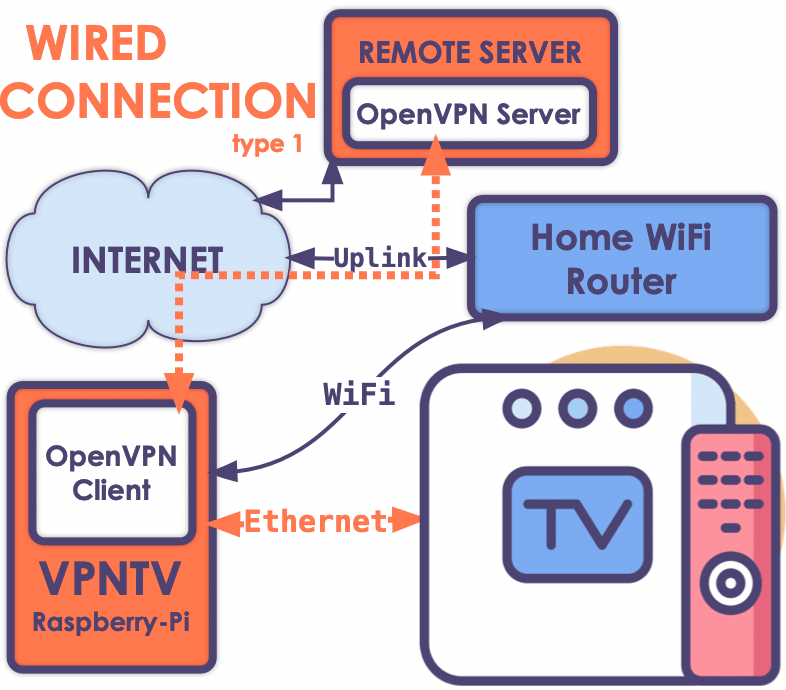
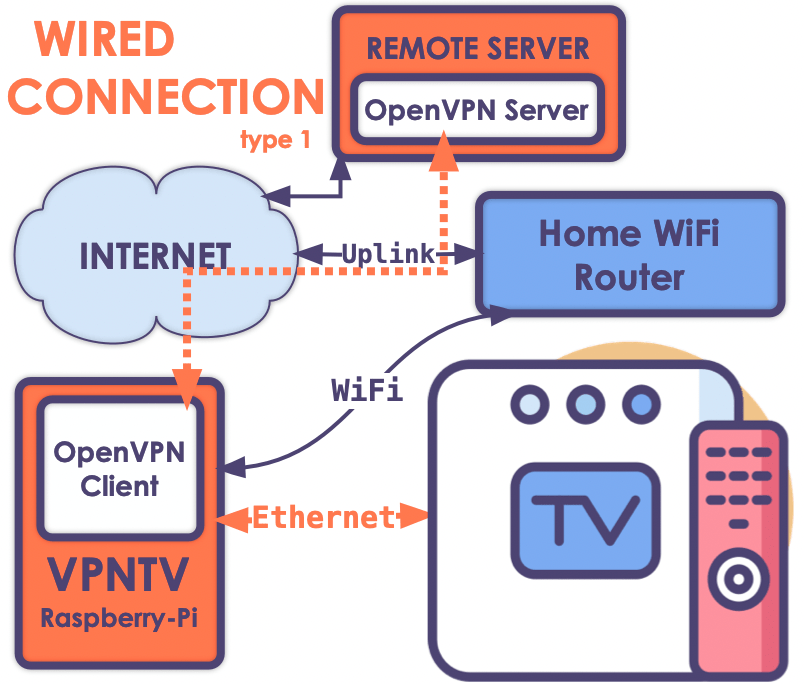
images update

diff --git a/README.md b/README.md
@@ -1,7 +1,7 @@
 # vpntv project
 **OpenVPN Client for any TV or TV-boxes**, provides OpenVPN client running as a service on your Raspberry Pi or any other Linux device. You may use [respberry-gateway](https://github.com/d3vilh/raspberry-gateway) or [openvpn-aws](https://github.com/d3vilh/openvpn-aws) to create your own VPN server and generate client configuration files compatible with this project. Supports **Wired** (Ethernet cable) and **Wireless** (WiFi) connection types to your TV.
 
- <img src="https://github.com/d3vilh/vpntv/raw/main/images/vpntv-wired.png" alt="wired connection" width="350" border="1" /> &nbsp; &nbsp; &nbsp; &nbsp; &nbsp; &nbsp; <img src="https://github.com/d3vilh/vpntv/raw/main/images/vpntv-wireless.png" alt="wireless connection" width="350" border="1" /> 
+<img src="https://github.com/d3vilh/vpntv/raw/main/images/vpntv-wireless.png" alt="wireless connection" width="305" border="1" /> <img src="https://github.com/d3vilh/vpntv/raw/main/images/vpntv-wired.png" alt="wired connection type 1" width="300" border="1" /> <img src="https://github.com/d3vilh/vpntv/raw/main/images/vpntv-wired2.png" alt="wired connection type 2" width="305" border="1" />
 
 At the moment project supports WiFi connection only, but Ethernet connection functionality is already in development.
 
